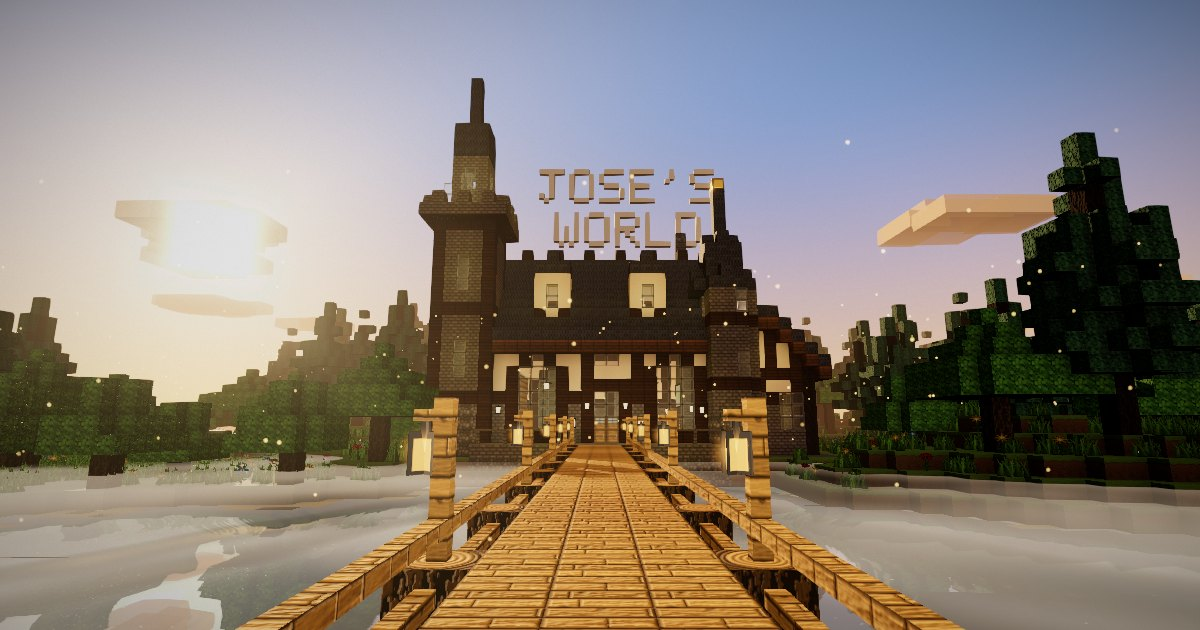
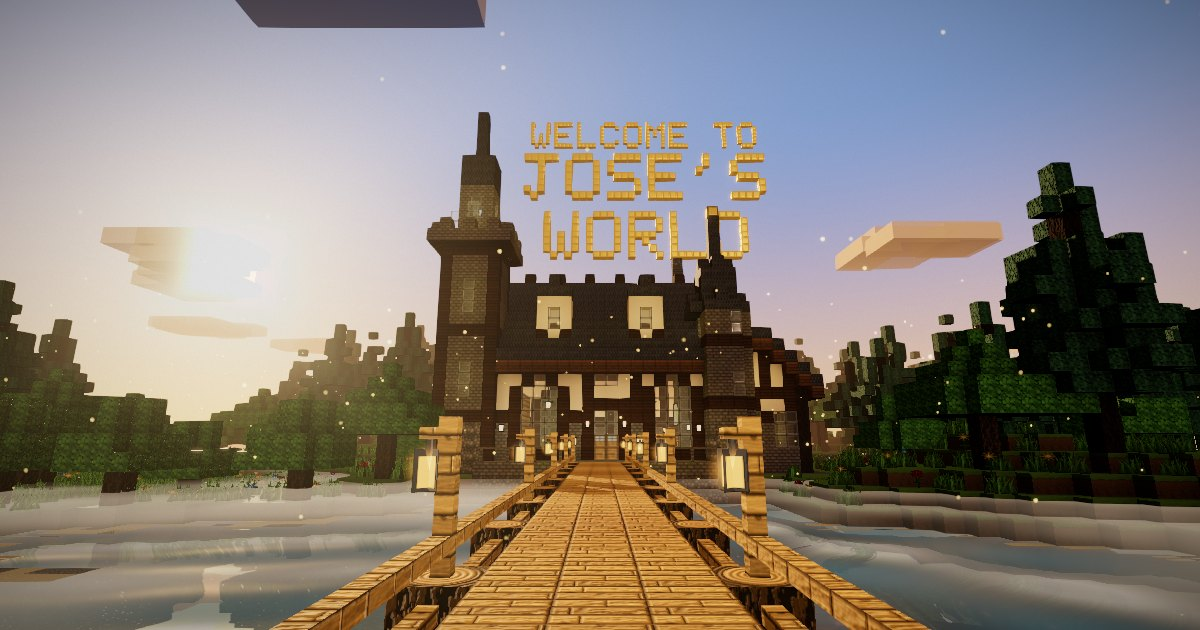
Golden 'Welcome to Jose's World' title above the manor; CS major only
Claude-Session: https://claude.ai/code/session_01RrPH772mCY1HBwKU1dym4Q

diff --git a/src/content.ts b/src/content.ts
@@ -101,7 +101,7 @@ export const ABOUT: L<{ heading: string; beats: { title: string; text: string }[
     beats: [
       { title: 'Born in Barahona, Dominican Republic', text: 'I grew up around my family\'s business. Near the end of high school I discovered how U.S. college applications worked — and knew that was where I wanted to study. So I took a gap year to build my application from scratch, and it got me to Williams College.' },
       { title: 'Debate, Model Congress, Model UN', text: 'In high school I lived for debate. I arrived at Williams convinced I would study Political Science and Economics.' },
-      { title: 'Then came CS 134', text: 'My first computer-science class changed the plan. I fell in love with building things. Today I\'m a Computer Science & Economics major who loves to build — and wants to go deep into developing artificial intelligence.' },
+      { title: 'Then came CS 134', text: 'My first computer-science class changed the plan. I fell in love with building things. Today I\'m a Computer Science major who loves to build — and wants to go deep into developing artificial intelligence.' },
     ],
   },
   es: {
@@ -109,7 +109,7 @@ export const ABOUT: L<{ heading: string; beats: { title: string; text: string }[
     beats: [
       { title: 'Nací en Barahona, República Dominicana', text: 'Crecí alrededor del negocio de mi familia. Casi al terminar la secundaria descubrí cómo funcionaban las aplicaciones a universidades en EE. UU., y tuve claro que quería estudiar allá. Me tomé un año sabático para preparar mi aplicación desde cero, y eso me llevó a Williams College.' },
       { title: 'Debate, Modelo de Congreso, Modelo de la ONU', text: 'En secundaria vivía para el debate. Llegué a Williams convencido de que estudiaría Ciencias Políticas y Economía.' },
-      { title: 'Y entonces llegó CS 134', text: 'Mi primera clase de computación cambió el plan. Me enamoré de construir cosas. Hoy soy estudiante de Computer Science y Economía al que le encanta construir, y quiero adentrarme en el desarrollo de la inteligencia artificial.' },
+      { title: 'Y entonces llegó CS 134', text: 'Mi primera clase de computación cambió el plan. Me enamoré de construir cosas. Hoy soy estudiante de Computer Science al que le encanta construir, y quiero adentrarme en el desarrollo de la inteligencia artificial.' },
     ],
   },
 };
@@ -123,7 +123,7 @@ export const CONTACT = {
 export const UI: Record<string, L> = {
   loading: { en: 'Loading Jose\'s World', es: 'Cargando el mundo de José' },
   enter: { en: 'Click to enter', es: 'Haz clic para entrar' },
-  subtitle: { en: 'José Miguel Féliz · Computer Science & Economics · Williams College', es: 'José Miguel Féliz · Computer Science y Economía · Williams College' },
+  subtitle: { en: 'José Miguel Féliz · Computer Science · Williams College', es: 'José Miguel Féliz · Computer Science · Williams College' },
   start: { en: 'Scroll to explore', es: 'Haz scroll para explorar' },
   startBtn: { en: 'Start the story', es: 'Empezar la historia' },
   chapterSpawn: { en: 'Spawn', es: 'Inicio' },

diff --git a/src/world/overworld.ts b/src/world/overworld.ts
@@ -322,11 +322,14 @@ const GLYPHS: Record<string, string[]> = {
   R: ['11110', '10001', '10001', '11110', '10100', '10010', '10001'],
   L: ['10000', '10000', '10000', '10000', '10000', '10000', '11111'],
   D: ['11110', '10001', '10001', '10001', '10001', '10001', '11110'],
+  C: ['01110', '10001', '10000', '10000', '10000', '10001', '01110'],
+  M: ['10001', '11011', '10101', '10101', '10001', '10001', '10001'],
+  T: ['11111', '00100', '00100', '00100', '00100', '00100', '00100'],
   ' ': ['00000', '00000', '00000', '00000', '00000', '00000', '00000'],
 };
 
 /** Builds "JOSE'S / WORLD" as voxel letters in its own little world. Returns geometry centred at x=0. */
-export function buildTitleGeometry(lines: string[], block = B.Quartz): { geo: THREE.BufferGeometry; width: number; height: number } {
+export function buildTitleGeometry(lines: string[], block = B.Quartz, glow = 0): { geo: THREE.BufferGeometry; width: number; height: number } {
   const maxLen = Math.max(...lines.map(l => l.length));
   const width = maxLen * 6 - 1, height = lines.length * 9 - 2;
   const tw = new World(width + 2, height + 2, 3);
@@ -337,7 +340,10 @@ export function buildTitleGeometry(lines: string[], block = B.Quartz): { geo: TH
     [...line].forEach((ch, ci) => {
       const g = GLYPHS[ch.toUpperCase()] ?? GLYPHS[' '];
       for (let r = 0; r < 7; r++) for (let c = 0; c < 5; c++) {
-        if (g[r][c] === '1') tw.set(ox + ci * 6 + c, oy + (6 - r), 1, block);
+        if (g[r][c] === '1') {
+          tw.set(ox + ci * 6 + c, oy + (6 - r), 1, block);
+          if (glow > 0) tw.addEmitter(ox + ci * 6 + c, oy + (6 - r), 1, glow, glow * 0.9, glow * 0.7);
+        }
       }
     });
   });

diff --git a/index.html b/index.html
@@ -4,7 +4,7 @@
     <meta charset="UTF-8" />
     <meta name="viewport" content="width=device-width, initial-scale=1.0, viewport-fit=cover" />
     <title>Jose's World — José Miguel Féliz</title>
-    <meta name="description" content="José Miguel Féliz — Computer Science & Economics at Williams College. A scroll-driven, block-world portfolio." />
+    <meta name="description" content="José Miguel Féliz — Computer Science at Williams College. A scroll-driven, block-world portfolio." />
     <meta name="theme-color" content="#1a0f0a" />
     <meta property="og:title" content="Jose's World — José Miguel Féliz" />
     <meta property="og:description" content="A first-person, block-world portfolio. Scroll to explore." />
@@ -26,7 +26,7 @@
       <!-- loading screen -->
       <div id="loader" role="dialog" aria-label="Loading">
         <div class="loader-inner">
-          <div class="loader-logo"><span>JOSE'S</span><span>WORLD</span></div>
+          <div class="loader-logo"><span class="pre">WELCOME TO</span><span>JOSE'S</span><span>WORLD</span></div>
           <div class="loader-sub" data-i18n="subtitle"></div>
           <div class="loader-bar"><div class="loader-fill"></div></div>
           <div class="loader-status"><span id="loader-msg" data-i18n="loading"></span></div>

diff --git a/src/style.css b/src/style.css
@@ -52,7 +52,8 @@ button, a.mc-btn, .mc-check, .lang-btn { pointer-events: auto; }
 .loader-inner { position: relative; display: flex; flex-direction: column; align-items: center; gap: 1.1rem; text-align: center; padding: 1rem var(--gutter); max-width: 720px; }
 .loader-logo { font-family: var(--pixel); font-weight: 700; line-height: 0.95; display: flex; flex-direction: column; align-items: center;
   font-size: clamp(3rem, 11vw, 6.5rem); color: #fff; text-shadow: 0 0 24px rgba(255, 200, 120, 0.35), 4px 4px 0 #3b2510, 6px 6px 0 rgba(0,0,0,0.5); }
-.loader-logo span:nth-child(2) { font-size: 0.7em; color: var(--accent); letter-spacing: 0.08em; }
+.loader-logo span:nth-child(3) { font-size: 0.7em; color: var(--accent); letter-spacing: 0.08em; }
+.loader-logo .pre { font-size: 0.3em; font-weight: 600; letter-spacing: 0.3em; color: var(--ink-dim); margin-bottom: 0.6em; }
 .loader-sub { font-family: var(--sans); color: var(--ink-dim); font-size: 0.95rem; }
 .loader-bar { width: min(420px, 80vw); height: 14px; border: 2px solid #111; background: #2a2a2a; box-shadow: inset 0 0 0 2px #4a4a4a; }
 .loader-fill { height: 100%; width: 0%; background: linear-gradient(#8ddc78, #5fb860); transition: width 0.25s ease; }

diff --git a/src/world/OverworldScene.ts b/src/world/OverworldScene.ts
@@ -57,12 +57,19 @@ export function createOverworld(atlas: THREE.DataArrayTexture, quality: Quality,
   if (foliage) foliage.receiveShadow = true;
 
   // ---- title ----
-  const titleGeo = buildTitleGeometry(["JOSE'S", 'WORLD'], B.Quartz);
+  // "WELCOME TO" (small) over "JOSE'S / WORLD" (big), softly self-lit so it reads against the dusk sky
+  const titleGeo = buildTitleGeometry(["JOSE'S", 'WORLD'], B.Gold, 11);
   const title = new THREE.Mesh(titleGeo.geo, matOpaque);
-  title.castShadow = false; title.receiveShadow = true;
-  title.scale.setScalar(0.65);
-  title.position.set(68, 39, 33);
+  title.castShadow = false; title.receiveShadow = false;
+  title.scale.setScalar(0.85);
+  title.position.set(70, 38, 40);
   scene.add(title);
+  const welcomeGeo = buildTitleGeometry(['WELCOME TO'], B.Gold, 11);
+  const welcome = new THREE.Mesh(welcomeGeo.geo, matOpaque);
+  welcome.castShadow = false; welcome.receiveShadow = false;
+  welcome.scale.setScalar(0.48);
+  welcome.position.set(70, 38 + titleGeo.height * 0.85 + 1.4, 40);
+  scene.add(welcome);
 
   // ---- sky / sun ----
   const sky = createSky(SUN_DIR, { zenith: '#6f8fcf', horizon, glow: '#ffd27a', ground: '#8a6a4a' });

diff --git a/src/ui/Fallback.ts b/src/ui/Fallback.ts
@@ -11,7 +11,7 @@ export function renderFallback() {
     <div style="position:absolute;inset:0;overflow:auto;background:#1a0f0a;color:#f8f1e4;font-family:Inter,system-ui,sans-serif;padding:48px 24px">
       <div style="max-width:720px;margin:0 auto">
         <h1 style="font-family:'Pixelify Sans',monospace;font-size:3rem;margin:0 0 .25rem">JOSE'S WORLD</h1>
-        <p style="opacity:.75;margin:0 0 2rem">José Miguel Féliz · Computer Science & Economics · Williams College</p>
+        <p style="opacity:.75;margin:0 0 2rem">José Miguel Féliz · Computer Science · Williams College</p>
         <p style="opacity:.75">${lang === 'es' ? 'Tu navegador no soporta WebGL2, así que aquí está la versión clásica.' : 'Your browser does not support WebGL2, so here is the classic version.'}</p>
         <h2 style="font-family:'Pixelify Sans',monospace">${about.heading}</h2>
         ${about.beats.map(b => `<h3>${b.title}</h3><p>${b.text}</p>`).join('')}

diff --git a/src/director/timeline.ts b/src/director/timeline.ts
@@ -30,8 +30,8 @@ export interface Key { at: number; pos: [number, number, number]; look: [number,
 
 /** Overworld camera path (first person). Positions are world units; eye height ≈ 1.6 above the floor. */
 export const OVERWORLD_KEYS: Key[] = [
-  { at: 0.00, pos: [64.5, 17.7, 98.5], look: [64.5, 25.5, 50], fov: 68 },
-  { at: 0.10, pos: [64.5, 17.7, 95.0], look: [64.5, 23.0, 50], fov: 68 },
+  { at: 0.00, pos: [64.5, 17.7, 98.5], look: [64.5, 27.5, 50], fov: 70 },
+  { at: 0.10, pos: [64.5, 17.7, 95.0], look: [64.5, 24.5, 50], fov: 70 },
   { at: 0.17, pos: [64.6, 17.65, 78.0], look: [65.0, 19.0, 52], fov: 70 },
   { at: 0.22, pos: [64.9, 17.6, 62.0], look: [65.0, 18.0, 52], fov: 70 },
   { at: 0.245, pos: [65.0, 17.6, 57.4], look: [65.0, 17.6, 50], fov: 70 },
